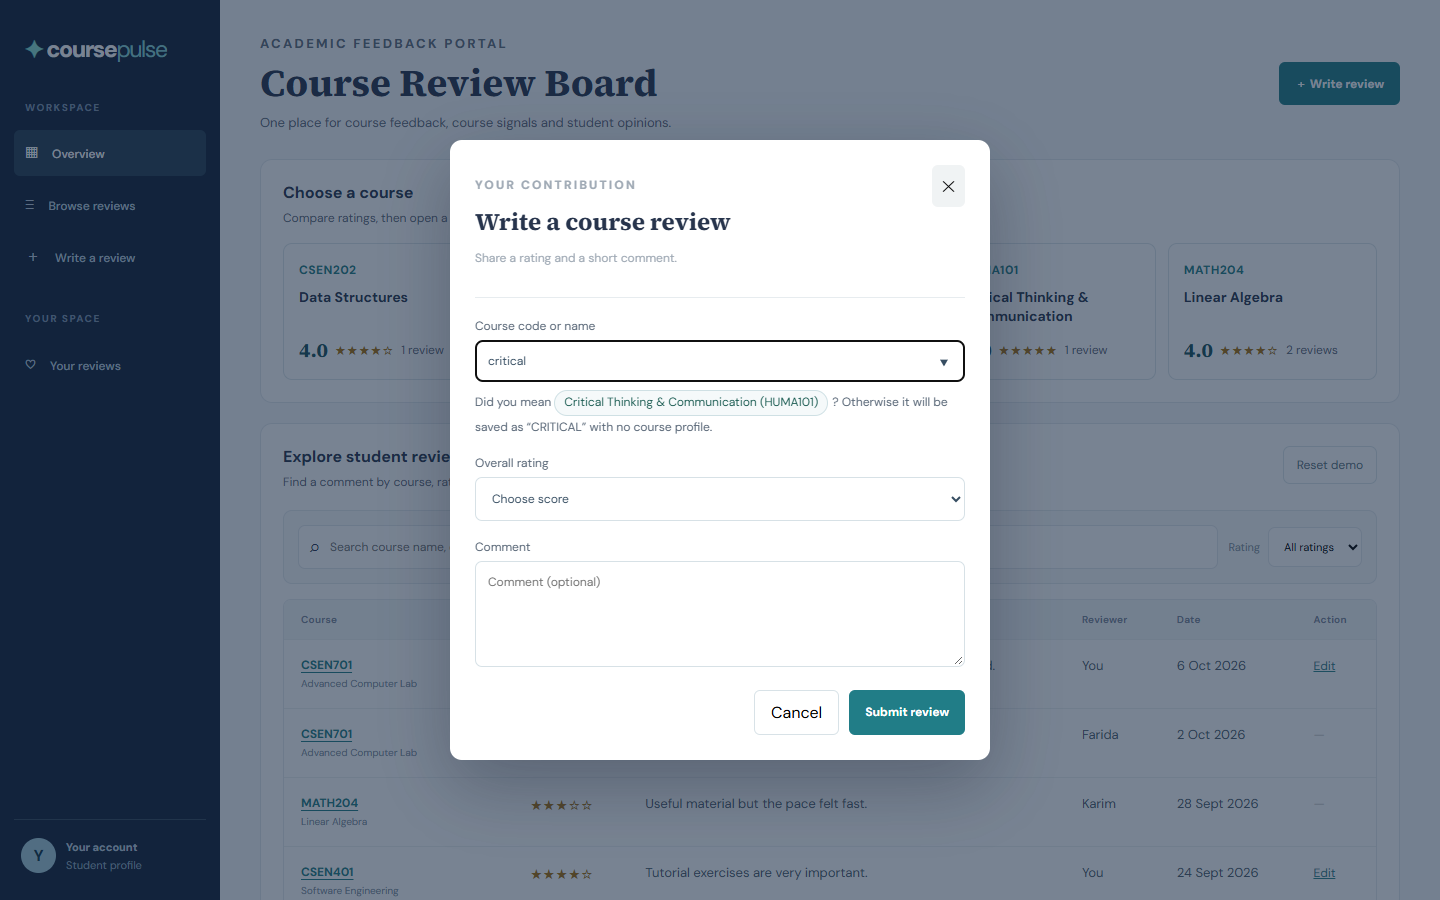
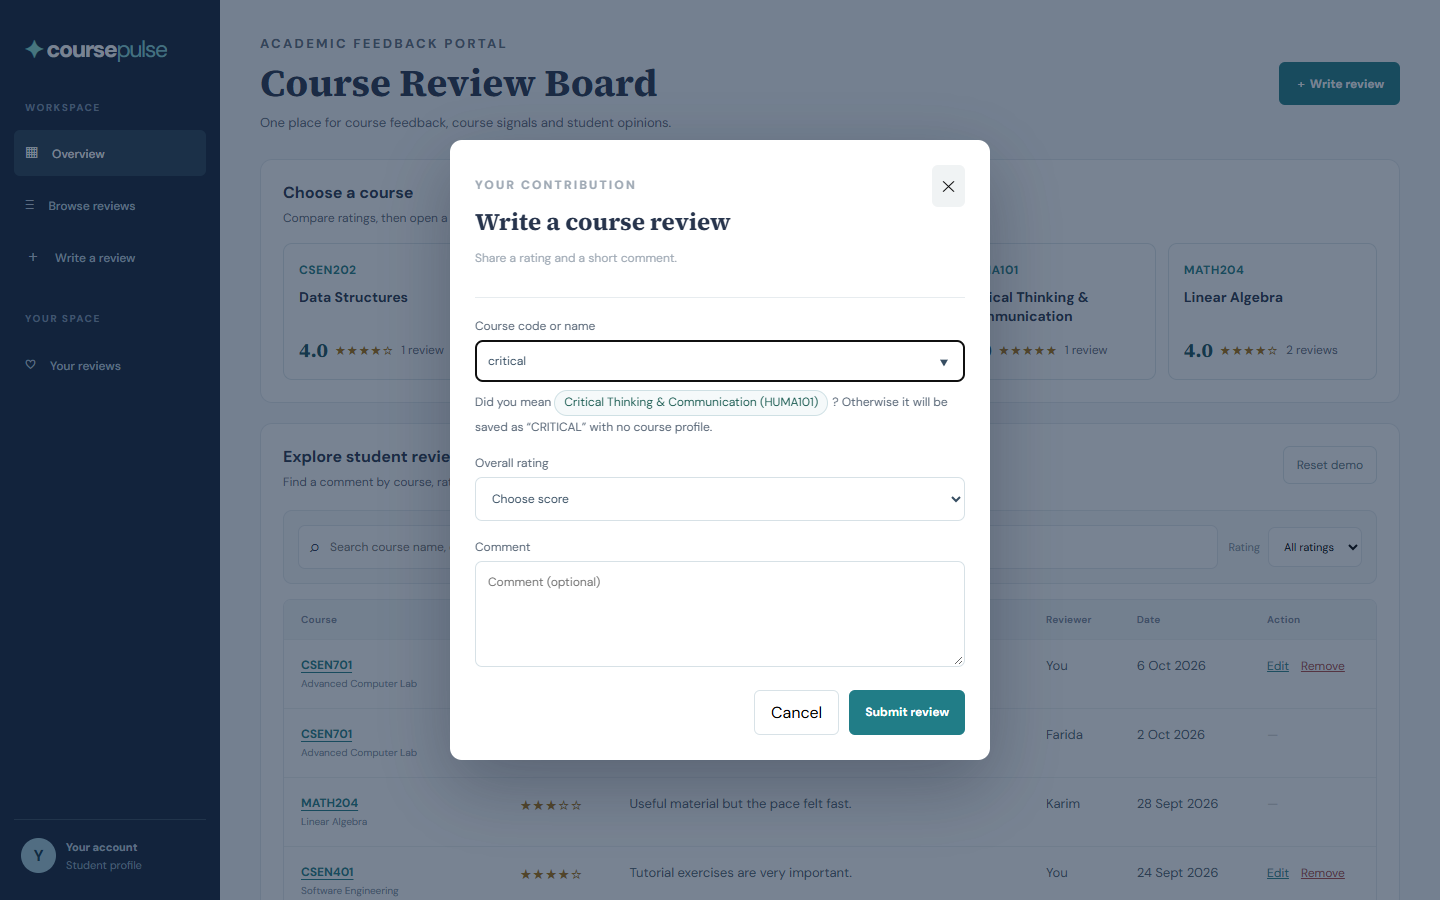
feat: add React application and styles for course review and tracking platform

diff --git a/src/App.jsx b/src/App.jsx
@@ -158,6 +158,14 @@ export default function App(){
   return ()=>document.removeEventListener('keydown',onKey);
  });
  function clearFilters(){setSearch('');setRating('all');setOwnerOnly(false);setTab('Browse');}
+ function removeReview(r){
+  if(r.owner!=='you'||!window.confirm(`Remove your review of ${r.courseCode}? This can't be undone.`))return;
+  setReviews(reviews.filter(x=>x.id!==r.id));
+  setNoticeCourse(null);
+  setNotice(`Review removed for ${r.courseCode}.`);
+  // The clicked button is gone after this, so hand focus to the message that replaces it.
+  requestAnimationFrame(()=>document.querySelector('.notice-actions button:last-child')?.focus());
+ }
  function submit(e){e.preventDefault();if(!editor.courseCode.trim()){setError('Enter a course code.');return;}if(!/^[1-5]$/.test(editor.rating)){setError('Rating must be from 1 to 5.');return;}const courseCode=resolveCourse(editor.courseCode,reviews)||editor.courseCode.trim().toUpperCase();if(ownReview(courseCode,editor.id)){setError('You have already reviewed this course.');return;}
  const payload={courseCode,rating:Number(editor.rating),comment:editor.comment.trim(),name:'You',owner:'you',date:new Date().toISOString().slice(0,10)};
  if(editor.id){setReviews(reviews.map(r=>r.id===editor.id?{...r,...payload}:r));setNotice(`Review updated for ${courseCode}.`);}else{setReviews([{...payload,id:'r-'+Date.now()},...reviews]);setNotice(`Review posted for ${courseCode}.`);}
@@ -191,14 +199,14 @@ export default function App(){
         <section className="panel course-feedback"><div className="detail-review-head"><div><h2>Student reviews</h2><p>Feedback for {activeCourseCode} from the example community.</p></div>{ownHere?<button className="post-review" onClick={()=>openEditor(ownHere)}>Edit your review</button>:<button className="post-review" onClick={()=>openEditor(null,activeCourseCode)}>＋ Review {activeCourseCode}</button>}</div>
           {reviews.some(r=>r.courseCode.toUpperCase()===activeCourseCode)&&<RatingBars list={reviews.filter(r=>r.courseCode.toUpperCase()===activeCourseCode)}/>}
           {reviews.filter(r=>r.courseCode.toUpperCase()===activeCourseCode).length ? reviews.filter(r=>r.courseCode.toUpperCase()===activeCourseCode).map(r=><article className="course-review" key={r.id}>
-            <div className="course-review-top"><strong>{r.name}</strong><span>{stars(r.rating)}</span></div><p>{r.comment||'No comment provided'}</p><div className="course-review-meta"><span>{formatDate(r.date)}</span>{r.owner==='you'&&<button className="row-edit" onClick={()=>openEditor(r)}>Edit your review</button>}</div>
+            <div className="course-review-top"><strong>{r.name}</strong><span>{stars(r.rating)}</span></div><p>{r.comment||'No comment provided'}</p><div className="course-review-meta"><span>{formatDate(r.date)}</span>{r.owner==='you'&&<span className="review-actions"><button className="row-edit" onClick={()=>openEditor(r)}>Edit your review</button><button className="row-remove" onClick={()=>removeReview(r)}>Remove</button></span>}</div>
           </article>) : <div className="course-review-empty">No reviews for this course yet.</div>}
         </section>
       </div>
     </section>
   ) : <><header className="page-head"><div><p className="eyebrow">ACADEMIC FEEDBACK PORTAL</p><h1>Course Review Board</h1><p>One place for course feedback, course signals and student opinions.</p></div><button className="post-review" onClick={()=>openEditor(null)}>＋ Write review</button></header>
    <section className="panel course-directory" aria-labelledby="course-directory-title"><div className="panel-head"><div><h2 id="course-directory-title">Choose a course</h2><p>Compare ratings, then open a course for its reviews and teaching history.</p></div></div><div className="course-cards">{courses.map(c=><button type="button" className="course-card" key={c.code} onClick={()=>openCourse(c.code)}><span className="course-card-top"><strong>{c.code}</strong>{c.mine&&<em>You reviewed</em>}</span><span className="course-card-name">{c.name}</span>{c.list.length?<span className="course-card-score"><b>{avg(c.list)}</b><span className="course-card-stars" aria-hidden="true">{stars(Math.round(avg(c.list)))}</span><small>{c.list.length} review{c.list.length===1?'':'s'}</small></span>:<span className="course-card-score"><small>No reviews yet</small></span>}</button>)}</div></section>
-   <section className="review-list panel" id="review-list"><div className="panel-head reviews-heading"><div><h2>Explore student reviews</h2><p>Find a comment by course, rating or student. Results update as you type.</p></div><button className="outline" onClick={reset}>Reset demo</button></div><div className="searchbar"><div className="searchinput"><span>⌕</span><input value={search} onChange={e=>setSearch(e.target.value)} aria-label="Search reviews" placeholder="Search course name, code, comment or student"/></div><label><span>Rating</span><select value={rating} onChange={e=>setRating(e.target.value)}><option value="all">All ratings</option>{[5,4,3,2,1].map(n=><option key={n} value={n}>{n} stars</option>)}</select></label></div>{filtersActive&&<div className="active-filters">{ownerOnly&&<span className="filter-chip">Only your reviews<button type="button" aria-label="Show reviews from everyone" onClick={()=>{setOwnerOnly(false);setTab('Browse');}}>✕</button></span>}<button type="button" className="row-edit" onClick={clearFilters}>Clear filters</button></div>}<div className="rows-wrapper"><table><thead><tr><th>Course</th><th>Stars</th><th>Student comment</th><th>Reviewer</th><th>Date</th><th>Action</th></tr></thead><tbody>{result.map(r=><tr key={r.id}><td><button type="button" className="course-link" title={`View ${getCourse(r.courseCode).name}`} onClick={()=>openCourse(r.courseCode)}><strong>{r.courseCode}</strong><small>{getCourse(r.courseCode).name}</small></button></td><td className="ratingcell">{stars(r.rating)}</td><td className="commentcell">{r.comment||'No comment provided'}</td><td>{r.name}</td><td className="datecell">{formatDate(r.date)}</td><td>{r.owner==='you'?<button className="row-edit" onClick={()=>openEditor(r)}>Edit</button>:<span className="dim">—</span>}</td></tr>)}{result.length===0&&<tr><td colSpan="6">No reviews match these filters. <button type="button" className="row-edit" onClick={clearFilters}>Clear filters</button></td></tr>}</tbody></table></div><p className="tablefoot">{result.length} of {reviews.length} reviews • Campus feedback platform</p></section>
+   <section className="review-list panel" id="review-list"><div className="panel-head reviews-heading"><div><h2>Explore student reviews</h2><p>Find a comment by course, rating or student. Results update as you type.</p></div><button className="outline" onClick={reset}>Reset demo</button></div><div className="searchbar"><div className="searchinput"><span>⌕</span><input value={search} onChange={e=>setSearch(e.target.value)} aria-label="Search reviews" placeholder="Search course name, code, comment or student"/></div><label><span>Rating</span><select value={rating} onChange={e=>setRating(e.target.value)}><option value="all">All ratings</option>{[5,4,3,2,1].map(n=><option key={n} value={n}>{n} stars</option>)}</select></label></div>{filtersActive&&<div className="active-filters">{ownerOnly&&<span className="filter-chip">Only your reviews<button type="button" aria-label="Show reviews from everyone" onClick={()=>{setOwnerOnly(false);setTab('Browse');}}>✕</button></span>}<button type="button" className="row-edit" onClick={clearFilters}>Clear filters</button></div>}<div className="rows-wrapper"><table><thead><tr><th>Course</th><th>Stars</th><th>Student comment</th><th>Reviewer</th><th>Date</th><th>Action</th></tr></thead><tbody>{result.map(r=><tr key={r.id}><td><button type="button" className="course-link" title={`View ${getCourse(r.courseCode).name}`} onClick={()=>openCourse(r.courseCode)}><strong>{r.courseCode}</strong><small>{getCourse(r.courseCode).name}</small></button></td><td className="ratingcell">{stars(r.rating)}</td><td className="commentcell">{r.comment||'No comment provided'}</td><td>{r.name}</td><td className="datecell">{formatDate(r.date)}</td><td>{r.owner==='you'?<span className="review-actions"><button className="row-edit" onClick={()=>openEditor(r)}>Edit</button><button className="row-remove" onClick={()=>removeReview(r)} aria-label={`Remove your review of ${r.courseCode}`}>Remove</button></span>:<span className="dim">—</span>}</td></tr>)}{result.length===0&&<tr><td colSpan="6">No reviews match these filters. <button type="button" className="row-edit" onClick={clearFilters}>Clear filters</button></td></tr>}</tbody></table></div><p className="tablefoot">{result.length} of {reviews.length} reviews • Campus feedback platform</p></section>
    <h2 className="section-title">Community snapshot</h2>
    <section className="metrics"><div className="metric"><small>ALL REVIEWS</small><strong>{reviews.length}</strong><span>Community contributions</span></div><div className="metric"><small>AVERAGE SCORE</small><strong>{avg(reviews)} <em>/ 5</em></strong><span>Calculated across entries</span></div><div className="metric"><small>COURSES RATED</small><strong>{uniqueCourses.length}</strong><span>Unique course codes</span></div></section>
    <div className="analytic-grid"><section className="panel pulse"><div className="panel-head"><div><h2>Community rating overview</h2><p>Ratings from recent student submissions</p></div><span className="dots">···</span></div><div className="pulse-content"><div className="donut"><div><span>{avg(reviews)}</span><small>AVERAGE</small></div></div><RatingBars list={reviews}/></div></section>

diff --git a/src/styles.css b/src/styles.css
@@ -58,6 +58,9 @@
 .filter-chip{display:inline-flex;align-items:center;gap:8px;background:#e8f5f3;color:#17594f;font-weight:700;border-radius:99px;padding:5px 7px 5px 12px}
 .filter-chip button{border:0;background:#cbe9e4;color:#17594f;border-radius:50%;width:20px;height:20px;padding:0;font-size:10px;line-height:1}
 .datecell{white-space:nowrap}
+.review-actions{display:inline-flex;gap:12px;white-space:nowrap}
+.row-remove{border:0;background:transparent;color:#ad4745;text-decoration:underline;padding:0;font-size:12px}
+.row-remove:hover{color:#8a2f2d}
 .modal form>label:has(input){margin-bottom:6px}
 .course-status{min-height:20px;margin-bottom:18px;font-size:12px;line-height:1.6;color:#5a6878}
 .status-ok{color:#17594f;font-weight:600}

diff --git a/submission/SUBMISSION.md b/submission/SUBMISSION.md
@@ -72,10 +72,10 @@
 
 ## Testing
 
-`tests/verify.mjs` drives the running app in headless Chrome. **88 checks pass, 0 fail** (`tests/results.txt`), and the production build succeeds. The checks cover:
+`tests/verify.mjs` drives the running app in headless Chrome. **102 checks pass, 0 fail** (`tests/results.txt`), and the production build succeeds. The checks cover:
 
 - **Validation:** course code required, whole-number ratings 1–5, optional comment, and one review per course, including when editing.
-- **Ownership:** you can only edit your own reviews, in both the table and the course page.
+- **Ownership:** you can only edit or remove your own reviews, in both the table and the course page.
 - **Course pages:** shareable links, reloads, unknown courses and teaching history.
 - **Data:** `localStorage` persistence, previously saved data, and Reset demo.
 - **Everything else:** the statistics and lookup, plus layout at 390px and 900px wide.
@@ -87,6 +87,7 @@ The script needs `playwright-core`, an installed Chrome and the app running on p
 ## Other behaviour changes
 - "Apply" is removed, because filtering was already live.
 - Reset demo now asks for confirmation, and still restores the example data.
+- New feature: you can remove your own reviews, after a confirmation (`after/13-review-removed.png`, `after/14-course-page-remove.png`). Removing a review frees that course for a new one.
 
 ## Known limitations
 - The donut chart's segments are still hardcoded in CSS and don't reflect the data.
